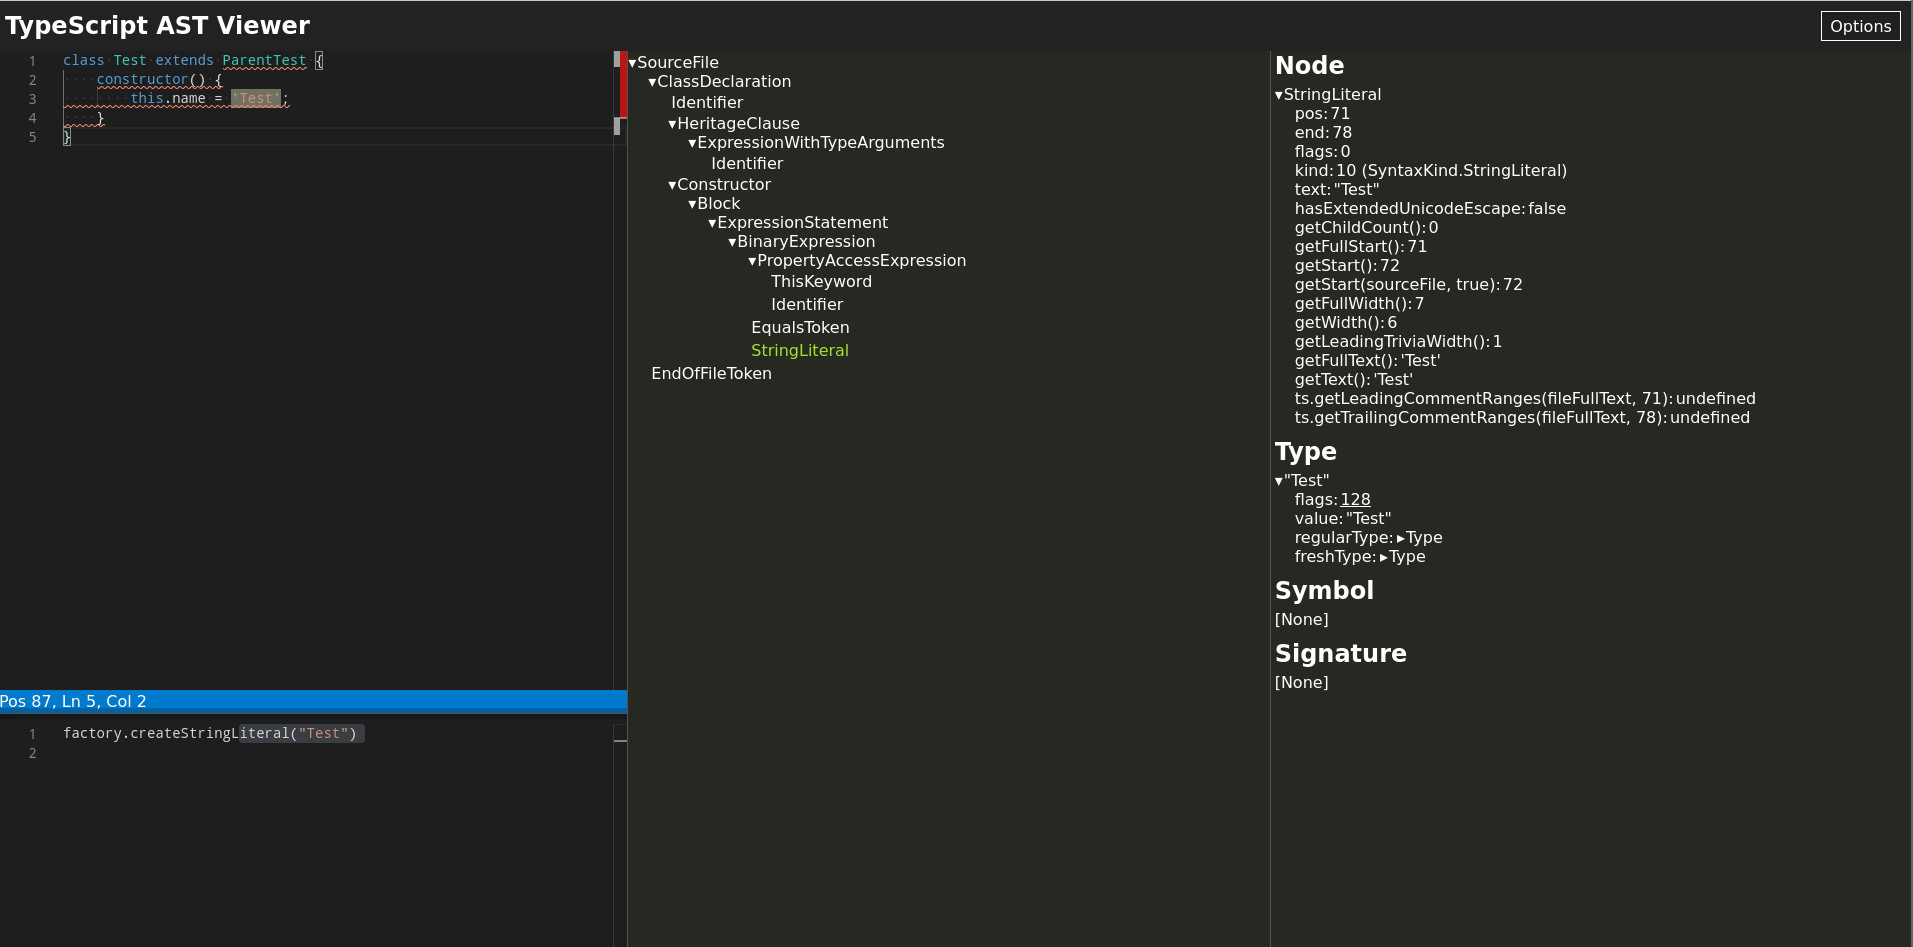
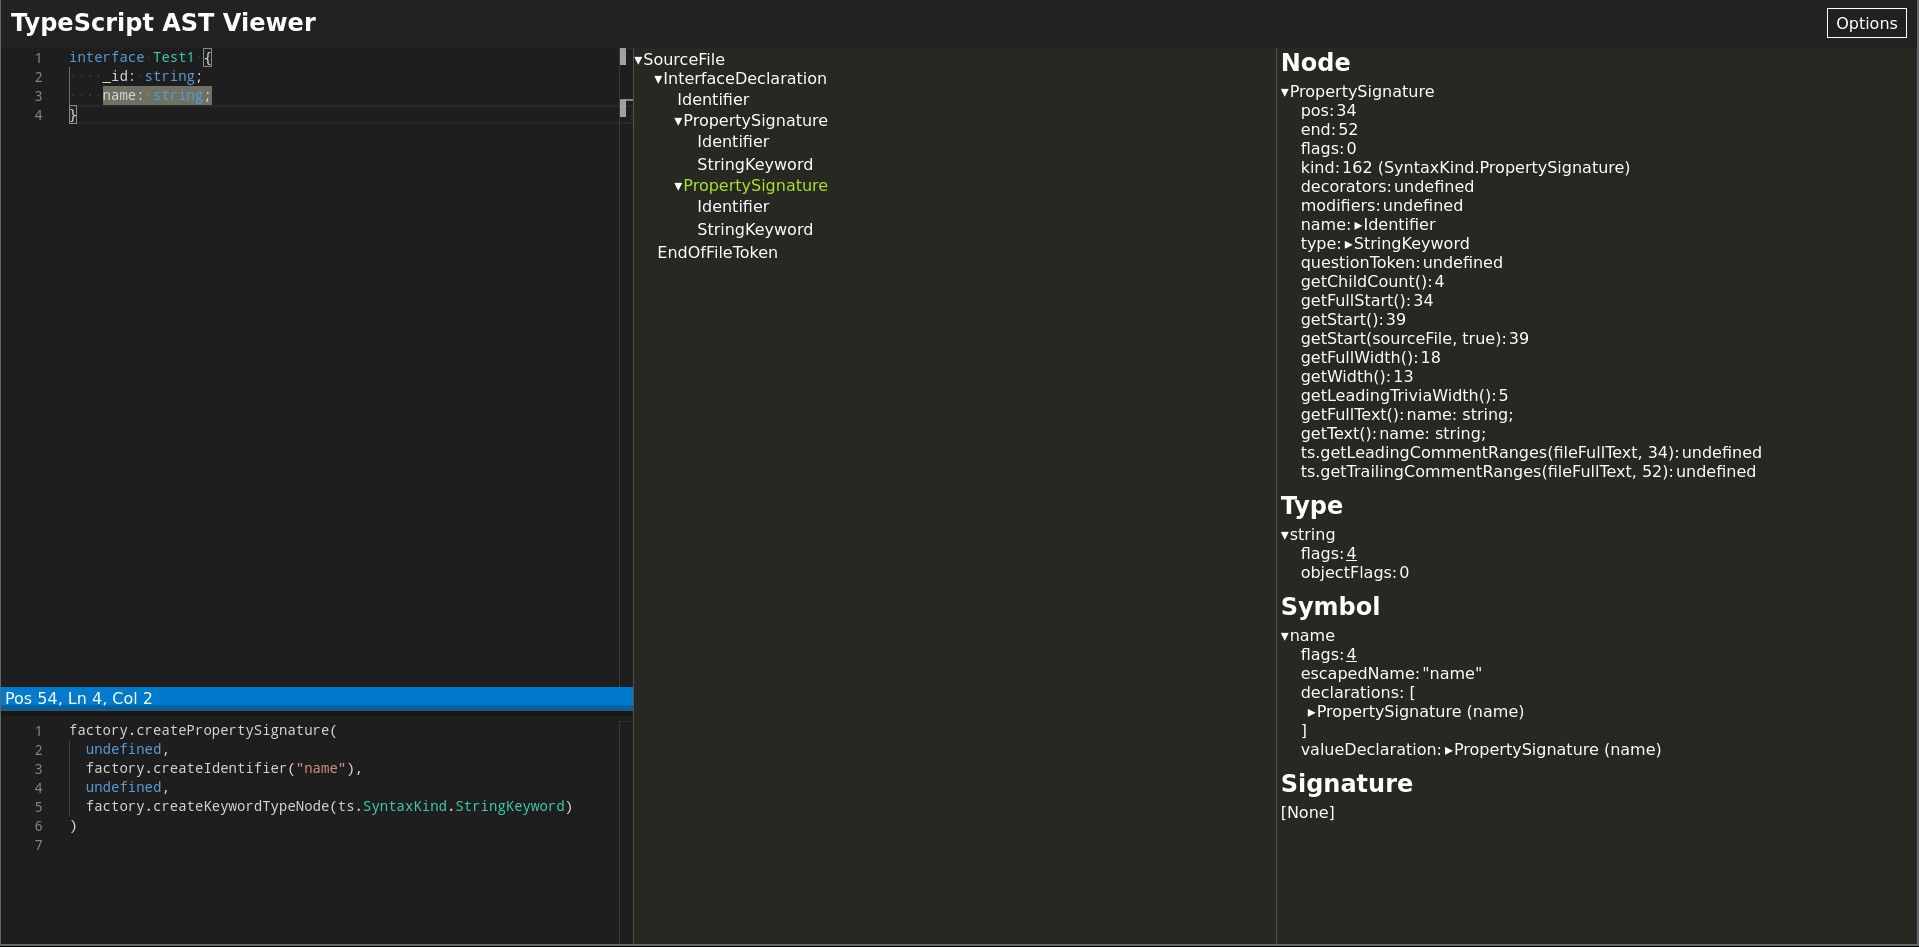
wip ts-refactor

diff --git a/js/ts-refactor/ts-refactor.md b/js/ts-refactor/ts-refactor.md
@@ -1,8 +1,8 @@
-# Automatizar refactoización de código Typescript
+# Refactorizar código Typescript con ts-morph
 
-Muchas veces en los proyectos nos encontramos con que queremos refactorizar código y vemos que por la cantidad de cambios que hay que hacer se convierte en una tarea tediosa, repetitiva que incluso podemos descartar por el tiempo que tenemos que emplear. Muchos de estos refactors pueder ser automatizados y es lo que vamos a ver en este artículo con 4 ejemplos con diferentes escenarios.
+Muchas veces en los proyectos nos encontramos con que queremos refactorizar código y vemos que por la cantidad de cambios que hay que hacer se convierte en una tarea tediosa, repetitiva que incluso podriamos descartar por el tiempo que tenemos que invertir. Muchos de estos refactors pueden ser programados y es lo que vamos a ver en este artículo con 4 ejemplos en diferentes escenarios.
 
-Para facilitar las cosas recomiendo usar [ts-morph](https://github.com/dsherret/ts-morph/) que nos proporciona un API más sencilla para navegar y modificar código Typescript.
+Para facilitar las cosas vamos a usar [ts-morph](https://github.com/dsherret/ts-morph/) que nos proporciona un API más sencilla para navegar y modificar código Typescript.
 
 Para empezar los ejemplos creamos una carpeta con su `package.json` e instalamos `ts-morph`.
 
@@ -13,23 +13,23 @@ npm install --save-dev ts-morph
 También instalamos [ts-node](https://www.npmjs.com/package/ts-node) que nos permite ejecutar Typescript con node.
 
 ```bash
-npm i --save typescript
+npm i --save ts-node
 ```
 
-Ya estamos listos para empezar a configurar nuestro script de refactor.
+Estamos listos para empezar a configurar nuestro script de refactor.
 
 Si tenemos un `tsconfig.json` que queremos usar podemos indicarlo como en el ejemplo. Por defecto `ts-morph` usará los mismos ficheros que hayamos indicado en el `tsconfig.json` podemos evitarlo añadiendo `skipAddingFilesFromTsConfig`.
 
 ```ts
-import { Project } from "ts-morph";
+import { Project } from 'ts-morph';
 
 const project = new Project({
-     tsConfigFilePath: "path/to/tsconfig.json",
+     tsConfigFilePath: 'path/to/tsconfig.json',
      skipAddingFilesFromTsConfig: true,
 });
 ```
 
-El siguiene paso es indicar en que ficheros queremos ejecutar el script si no estamos usando los del `tsconfig.json`.
+A continuación vamos a indicar en que ficheros queremos ejecutar el script si no estamos usando los del `tsconfig.json`.
 
 ```ts
  project.addSourceFilesAtPaths('src/**/*.ts');
@@ -57,7 +57,13 @@ interface Test1 {
 }
 ```
 
-Creamos el fichero `example1.ts`. Configuramos el proyecto como hemos visto y con `getSourceFiles` recorremos todos los ficheros.
+Antes de empezar recomiendo usar [ts-ast-viewer](https://ts-ast-viewer.com/) que nos muestra el AST del código que no sirve de gran ayuda a la hora de usar `ts-morph` para comprender la estructura del código que vamos a refactorizar.
+
+Este es el AST del la interfaz anterior:
+
+![build](https://raw.githubusercontent.com/juanfran/posts/master/js/ts-refactor/assets/ts-ast-viewer.jpg)
+
+Ahora empezemos con el código que refactoriza nuestra primera interfaz. Creamos el fichero `example1.ts`. Configuramos el proyecto como hemos visto y con `getSourceFiles` recorremos todos los ficheros.
 
 ```ts
 import { Project } from 'ts-morph';
@@ -83,7 +89,7 @@ project.getSourceFiles().forEach((sourceFile) => {
 });
 ```
 
-Empezamos con las modificaciones a la interfaz. Buscamos las interfaces que necesitamos, borraramos `_id` y añadimos `id`.
+Empezamos con las modificaciones a la interfaz. Comprobamos si la interfaz contiene `_id`, si es así lo borraramos y añadimos `id`.
 
 ```ts
 interfaces.forEach((interfaceDeclaration) => {
@@ -106,7 +112,7 @@ interfaces.forEach((interfaceDeclaration) => {
 sourceFile.save();
 ```
 
-Para inicial el refactor ejecutamos el comando `npx ts-node example1.ts`. Si todo ha ido bien veremos que el fichero ha sido modifado con los cambios indicados.
+Para iniciar el refactor ejecutamos el comando `npx ts-node example1.ts`. Si todo ha ido bien veremos que el fichero ha sido modificado con los cambios indicados.
 
 [Código completo](https://github.com/juanfran/posts/blob/master/js/ts-refactor/example/example1.ts)
 
@@ -156,7 +162,7 @@ const classConstructor = sourceFile.forEachDescendant((node, traversal) => {
             // Si no se trata de la clase que estamos buscando hacemos un `skip` de esta rama del arbol porque ya sabemos que su constructor no nos interesa
             traversal.skip();
         }
-    // Si es un constructor devolvemos el nodo porque gracias al skip anterior sabemos que está dentro de una clase que tiene lo que buscamos
+    // Si es un constructor terminamos la búsqueda porque gracias al skip anterior sabemos que está dentro de una clase que tiene lo que buscamos
     } else if (Node.isConstructorDeclaration(node)) {
         return node;
     }
@@ -165,7 +171,7 @@ const classConstructor = sourceFile.forEachDescendant((node, traversal) => {
 });
 ```
 
-A continuación si hemos encontrado el constructor vamos a buscar si existen la variable `name` y si existe remplazar su contenido y añadir el `console.log`.
+A continuación si hemos encontrado el constructor vamos a buscar si existen la variable `name`, si es así remplazamos su contenido y añadir el `console.log`.
 
 ```ts
 if (classConstructor) {
@@ -201,7 +207,7 @@ project.getSourceFiles().forEach((sourceFile) => {
     const directory = sourceFile.getDirectory();
     const classesToMove = classes.slice(1);
 
-    // Vamos clase por clase creando un fichero con el nombre y el cotenido de la misma, al terminar borramos la clase del fichero original
+    // Vamos clase por clase creando un fichero con el nombre y el contenido de la misma, al terminar borramos la clase del fichero original
     classesToMove.forEach((itClass) => {
       directory.createSourceFile(`${itClass.getName()}.ts`, itClass.getText());
       itClass.remove();
@@ -220,7 +226,7 @@ project.getSourceFiles().forEach((sourceFile) => {
 
 ## Ejemplo 4, renombrar una clase y todas sus referencias
 
-Para este ejemplo tenemos dos ficheros, el de la clase que queremos renombrar:
+Para este ejemplo tenemos dos ficheros, el de la clase `Test` que queremos renombrar:
 
 ```ts
 export class Test {
@@ -265,7 +271,7 @@ const classes = sourceFile.getClasses();
 classes.forEach((itClass) => {
   // Comprobamos si es la clase que queremos renombrar
   if (itClass.getName() === 'Test') {
-    // Buscamos las referencias, en este caso nos devulve un array que contiene un`ReferencedSymbol` por cada fichero donde se esté usando `Test`
+    // Buscamos las referencias, en este caso nos devulve un array que contiene un `ReferencedSymbol` por cada fichero donde se esté usando `Test`
     const referencedSymbols = itClass.findReferences();
 
     referencedSymbols.forEach((referenceSymbol) => {
@@ -285,8 +291,8 @@ classes.forEach((itClass) => {
 
 ### Conclusiones
 
-Con `ts-morph` podeis ver que ya no importa la cantidad de cambios que tengamos que hacer en un refactor, gracias a poder automatizarlo podemos ahorrarnos horas/días de trabajo repetitivo por lo que creo que dominarlo merece mucho la pena.
+Con `ts-morph` podeis ver que ya no importa la cantidad de cambios que tengamos que hacer en un refactor, gracias a poder programar los cambios podemos ahorrarnos horas/días de trabajo repetitivo por lo que creo que dominarlo merece mucho la pena.
 
-También, aun que no los hemos visto en los ejemplo podemos analizar el código para crear nuestro propios linters.
+También aun que no los hemos visto en los ejemplo podemos analizar el código para crear nuestro propios linters.
 
 Podeis encontar muchas más últilidades en la [documentación oficial](https://ts-morph.com/).
